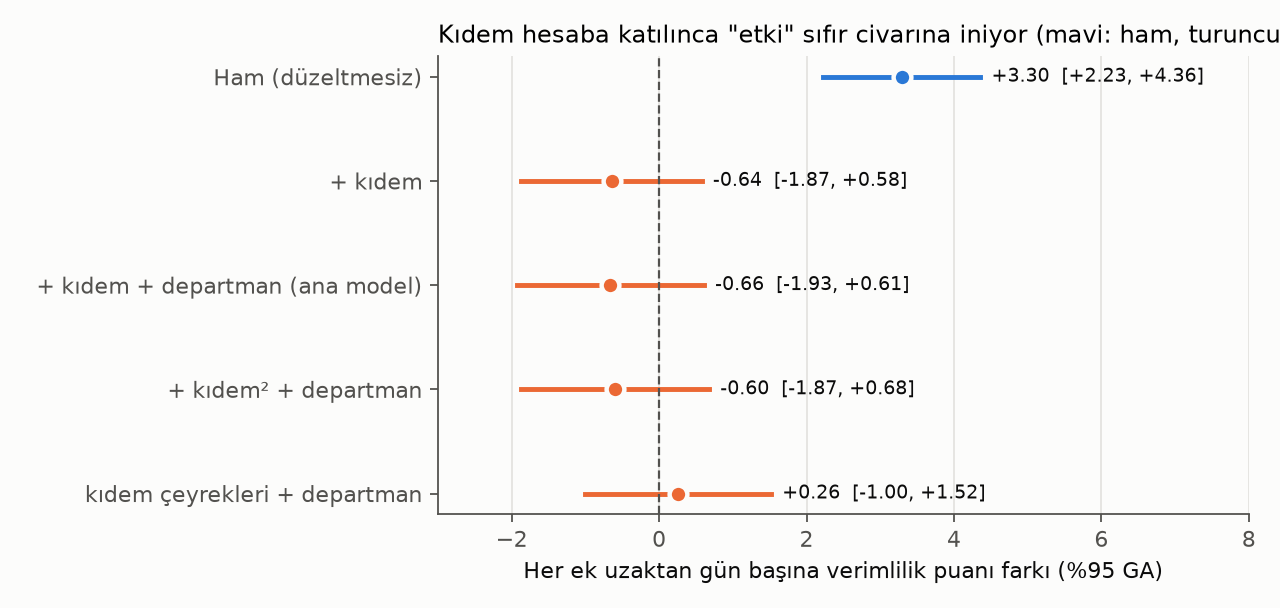
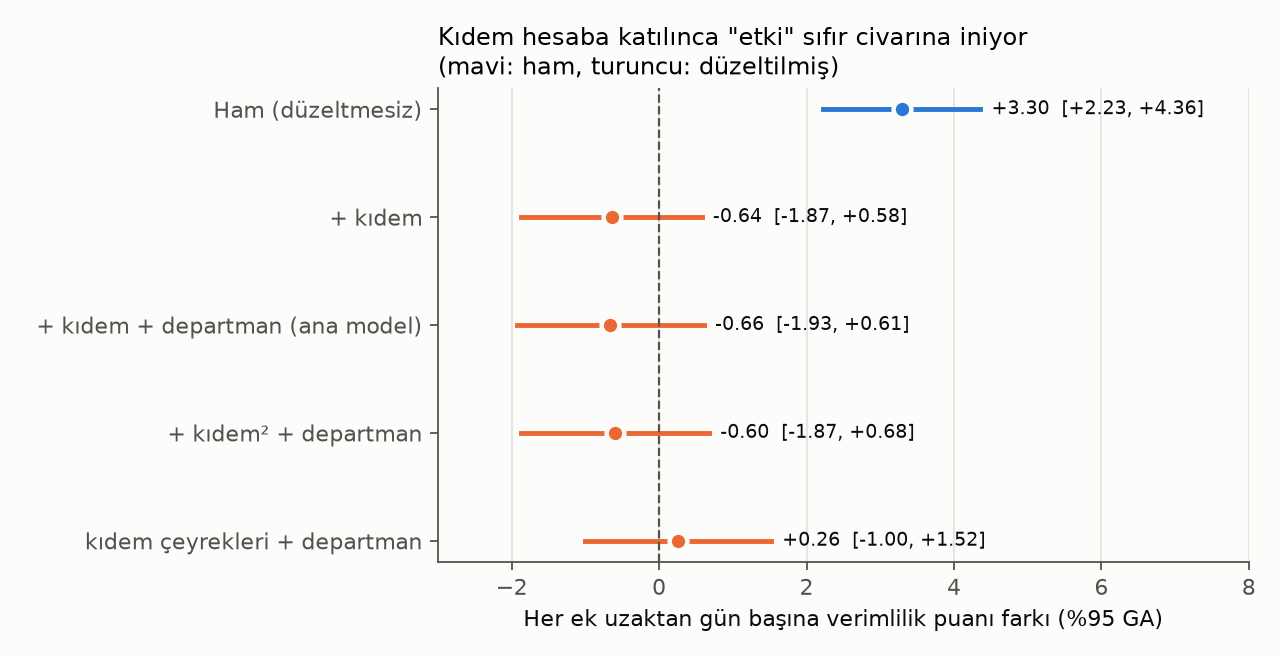
Test çıktıları: iteration-2 (ara kayıt 2)
Claude-Session: https://claude.ai/code/session_01MeLypSKnyDbRXGACcs69b8

diff --git a/iddia-dogrulama-workspace/iteration-2/eval-2-aralikli-oruc-literatur/without_skill/run-1/outputs/final_message.md b/iddia-dogrulama-workspace/iteration-2/eval-2-aralikli-oruc-literatur/without_skill/run-1/outputs/final_message.md
@@ -1,0 +1,32 @@
+Bu iddia bilimsel literatürle **desteklenmiyor**; büyük ölçüde yanlış ve abartılı. 16:8 aralıklı oruç, klasik kalori kısıtlamasına **benzer** miktarda kilo verdiriyor. İnsülin direncini ise klasik diyetten daha iyi düzelttiğine ya da "tamamen" düzelttiğine dair bir kanıt yok.
+
+**İddianın parçaları ve doğru olma olasılığı** (olasılıklar kanıtların ağırlığına göre yaptığım tahminlerdir, kesin istatistik değildir):
+
+| Parça | Olasılık | Hüküm |
+|---|---|---|
+| 16:8 kilo verdirir (hiçbir şey yapmamaya göre) | ~%90 | Doğru, ama etkinin kaynağı daha az yemek |
+| Aynı kalorideki klasik diyete göre *biraz* daha fazla kilo verdirir | ~%15–20 | Büyük olasılıkla yanlış |
+| Aynı kalorideki klasik diyete göre *çok daha fazla* kilo verdirir | ~%3–5 | Yanlış |
+| İnsülin direnci belirteçlerini iyileştirebilir | ~%70 | Kısmen doğru, çoğunlukla verilen kiloya bağlı |
+| Klasik diyetten daha fazla iyileştirir | ~%10–15 | Büyük olasılıkla yanlış |
+| İnsülin direncini *tamamen düzeltir* | ~%2 | Yanlış |
+| **İddianın tamamı** | **<%2** | **Yanlış / yanıltıcı** |
+
+**Hükmü belirleyen kaynaklar** (güvenilirlik puanı 0–10):
+- **Cochrane derlemesi, 2026 (9/10):** 22 randomize çalışmayı inceledi. Aralıklı oruç ile standart diyet önerisi arasındaki kilo kaybı farkı neredeyse sıfır: −0,33 yüzde puan (%95 GA −0,92 ile 0,26). Kanıtın kesinliği düşük.
+- **BMJ ağ meta-analizi, 2025 (9/10):** 99 çalışma ve 6.582 kişi. 16:8 dahil zaman kısıtlı beslenme, kalori kısıtlamasından üstün çıkmadı. Kardiyometabolik etkiler benzerdi.
+- **NEJM, 2022 (9/10):** İddiayı en doğrudan test eden çalışma. 12 ay boyunca iki grup aynı kalori hedefiyle beslendi. Aradaki −1,8 kg'lık fark istatistiksel olarak anlamlı değildi. HOMA-IR ve kan şekeri iki grupta aynıydı.
+- **TREAT, JAMA Intern Med 2020 (7/10):** Tam olarak 16:8 uygulandı. Kontrol grubuyla fark anlamlı değildi. Ayrıca 16:8 grubunda kas kaybı sinyali görüldü.
+- **İnsülin direnciyle ilgili çelişkili kanıt:** 8 erkeklik izokalorik bir çalışma (Cell Metab 2018, 5/10) insülin duyarlılığında iyileşme buldu. Daha yeni ve daha büyük izokalorik ChronoFast çalışması (Sci Transl Med 2025, 6/10) ise iyileşme bulmadı. Tip 2 diyabette 16:8 ile kalori kısıtlaması HbA1c'yi aynı ölçüde düşürdü (JAMA Netw Open 2023, 6/10).
+
+İddianın doğru hali şöyle olurdu: "16:8, kalori kısıtlamasına benzer miktarda kilo verdirebilir ve kilo kaybına bağlı olarak insülin duyarlılığını bir miktar iyileştirebilir. Klasik diyetten üstün olduğu gösterilmedi." Kalori saymayı zor bulan biri için uygulaması daha kolay olabilir. Ancak aynı kalori alındığında sağladığı ek bir fizyolojik avantaj kanıtlanmış değil.
+
+**Varsayımlar ve sınırlamalar:**
+- "Klasik diyet" ifadesini günlük kalori kısıtlaması, "çok daha fazla" ifadesini de en az 2 kg'lık ya da klinik açıdan anlamlı bir fark olarak yorumladım.
+- Web aramasıyla kaynakları buldum, ancak makalelerin tam metinlerine erişim ağ tarafından engellendi. Sayıları arama özetlerinden doğruladım. Birkaç rakam (NEJM'deki grup ortalamaları, TREAT sonuçları) yayımlanmış özetlerden alındı ve tam metinden yeniden kontrol edilemedi; raporda bunları **(†)** ile işaretledim.
+- Bu bir bilgilendirmedir, tıbbi tavsiye değildir. Diyabet ilacı kullananlar oruca başlamadan önce hekimlerine danışmalı.
+
+**Dosyalar** (`/home/user/calisma-alanim/iddia-dogrulama-workspace/iteration-2/eval-2-aralikli-oruc-literatur/without_skill/run-1/outputs/` içinde):
+- `rapor.md`: Ayrıntılı Türkçe rapor. 11 kaynağın tablosu, puanlama ölçütü, alt iddiaların olasılıkları ve bağlantılar burada.
+- `dogrulama.json`: Aynı sonuçların yapılandırılmış hali (kaynaklar, puanlar, alt iddialar, olasılıklar).
+- `final_message.md`: Bu mesaj.
